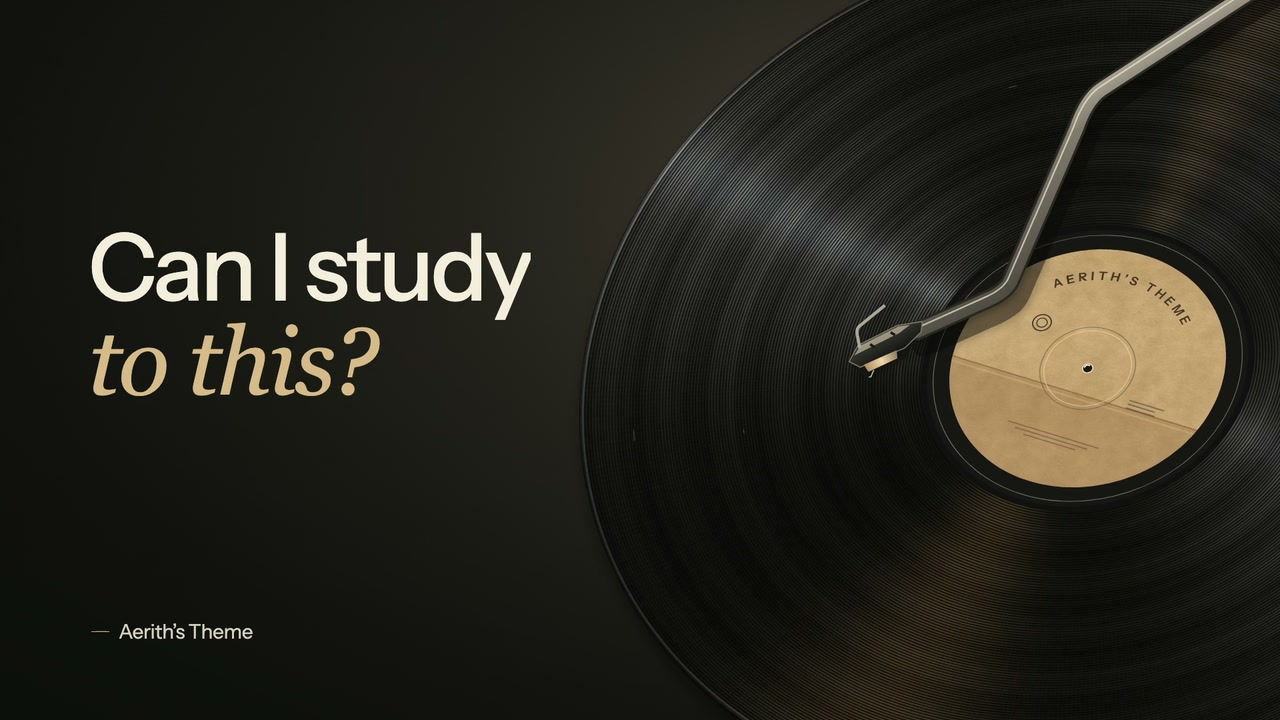
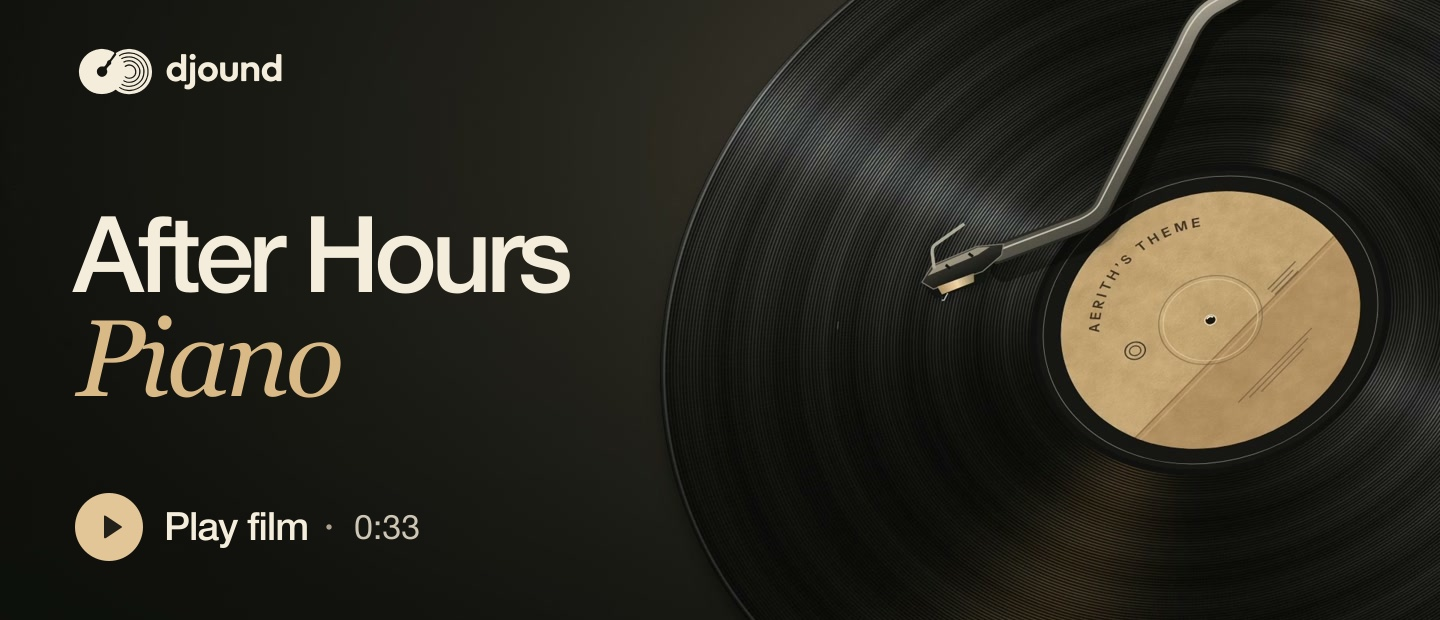
Lead the README with the After Hours Piano film and a guide to the engine

diff --git a/README.md b/README.md
@@ -1,14 +1,22 @@
+[![Play After Hours Piano, a Djound film about reimagining Aerith’s Theme](showcase/release/after-hours-piano.jpg)](showcase/release/after-hours-piano.mp4)
+
+[Watch with sound · 33 seconds](showcase/release/after-hours-piano.mp4). At 0:16, listen to the same phrase again. The brushes drop out and an acoustic piano carries Aerith’s melody over soft electric piano. [Music credits](THIRD_PARTY_NOTICES.md#featured-film)
+
 # Djound
 
-Djound is an open-source music studio for reimagining a recording in your own words. Bring a song, choose a style or describe how you want it to sound, then listen and refine the edit you like. Your original, edit history and exported WAVs stay on your Mac. [Product vision](guide/product.md) · [API contract](contracts/openapi.yaml)
+Djound is an open source music studio for editing a recording in your own words. The music and the models stay on your Mac.
 
-[![Play After Hours Piano, a 33-second film showing Aerith’s Theme reimagined in Djound](showcase/release/after-hours-piano.jpg)](showcase/release/after-hours-piano.mp4)
+1. **Bring a recording.** Choose a song and describe what you want to hear. In the film, part of the request was “No drums. No bass.”
+2. **Play the new edit.** Switch between performances to hear what changed. Choose the version you like under **Editing from** and ask for another change. The last request for *After Hours Piano* was “Cut the outro. Finish with the melody.”
+3. **Keep your favorite.** Star it, reopen it from your library, or choose **Export audio** to save the WAV.
 
-**[Watch After Hours Piano with sound](showcase/release/after-hours-piano.mp4)** · Listen for the brushes under the held piano note. At 0:16 the same phrase returns as a drumless piano duet. [Music credits](THIRD_PARTY_NOTICES.md#featured-film)
+## How the engine works
 
-## run it locally
+For an arrangement like the piano duet, a Python worker transcribes the melody. Qwen interprets the request and directs a score with parts for each player. A local synthesizer performs it. The studio saves the score with the audio, so the next request can change the ending and keep the piano parts you liked. For edits to the recorded sound itself, the worker can use a local audio model. Spring Boot manages the jobs and PostgreSQL keeps each edit tied to its parent. [Inside the engine](guide/architecture.md)
 
-for the local rendition studio, use an Apple Silicon Mac with Git, Apple Command Line Tools, CMake, Python 3.11, uv, FFmpeg, pnpm 11.5.0 and Docker with Compose. start Docker, then run these commands from the repo root.
+## Run it locally
+
+Start Docker on an Apple Silicon Mac and install the [prerequisites](guide/running.md). Run these commands from the checkout.
 
 ```sh
 bash scripts/bootstrap.sh
@@ -18,14 +26,4 @@ bash scripts/package.sh
 DJOUND_MODE=LOCAL bash scripts/run.sh
 ```
 
-Open **http://127.0.0.1:8080**. Choose **Bring a recording** to start from your own file, or **Try an edit** to open the example jazz arrangement. Select an edit in Studio before asking for the next change.
-
-Setup downloads the tools and models. Use the [running guide](guide/running.md) for model choices, the optional mix and melody engines and installation checks.
-
-## how it works
-
-in the rendition engine, the same local Qwen3 4B model interprets your request and directs the arrangement. older installations can use the smaller Qwen3.5 0.8B model. when the worker can follow a tune in the recording, the director chooses how fast to play it, who carries the melody and how the other players accompany it. a new take can have its own tempo and ending. its saved arrangement gives the next request something concrete to change. the player performs the score locally. ACE-Step handles generated sound treatments, passage changes and direct covers of recordings with little reliable pitch information. each ready take keeps its own audio and the request that led to it.
-
-in the melody engine, Basic Pitch detects the notes. you can correct them, keep the uploaded performance as the lead, or play them on a different instrument. the renderer builds the backing from the arrangement you approve. the melody setup includes built-in text edits and direct controls. running `bash local-engine/setup_localengine.sh` without flags installs the melody and finished mix engines plus the optional Qwen arrangement planner.
-
-spring boot manages the api, postgres keeps project history, and a python worker handles transcription and rendering. [architecture](guide/architecture.md) · [setup and troubleshooting](guide/running.md) · [contributing](CONTRIBUTING.md) · [license](LICENSE)
+Open [the studio](http://127.0.0.1:8080) and choose **Try an edit** to hear the included example. [Setup and troubleshooting](guide/running.md) · [Contributing](CONTRIBUTING.md) · [License](LICENSE)
